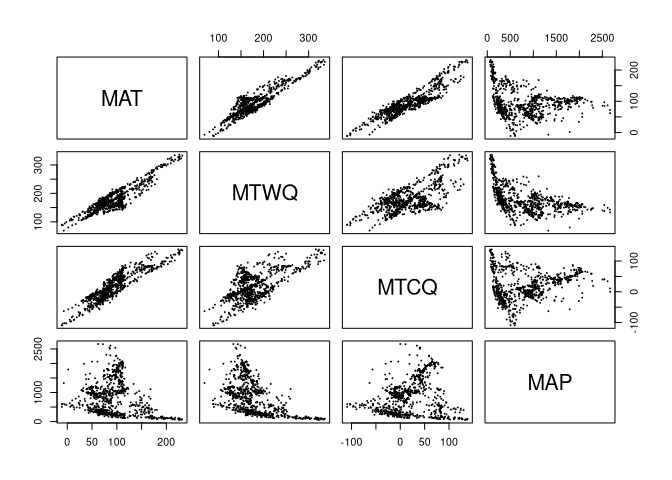
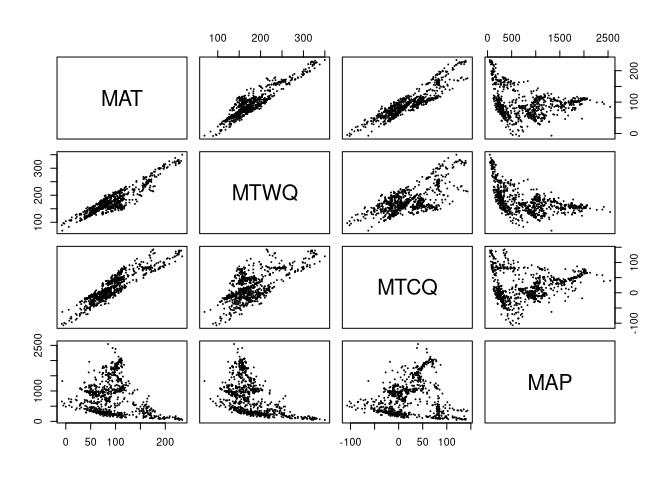
Expanded README

diff --git a/README.md b/README.md
@@ -1,7 +1,7 @@
 An overview of Species Distribution Modeling in R
 =================================================
 
-### This demo was largely based on [Hijmans & Elith, 2013](https://cran.r-project.org/web/packages/dismo/vignettes/sdm.pdf) and the [sdm](https://cran.r-project.org/web/packages/sdm/sdm.pdf) and [dismo](https://cran.r-project.org/web/packages/dismo/dismo.pdf) documentation pages. This serves to provide a walkthrough of SDM and popular implementations in R as of Fall 2020. I’ve included the extent of my understanding of how the different methods work.
+### This demo was largely based on [Hijmans & Elith, 2013](https://cran.r-project.org/web/packages/dismo/vignettes/sdm.pdf), [Franklin 2010](https://doi.org/10.1017/CBO9780511810602) and the [sdm](https://cran.r-project.org/web/packages/sdm/sdm.pdf) and [dismo](https://cran.r-project.org/web/packages/dismo/dismo.pdf) documentation pages. This serves to provide a walkthrough of SDM and popular implementations in R as of Fall 2020. I’ve included the extent of my understanding of how the different methods work.
 
 ### If you already have an understanding of the motivation of SDM, continue here to learn more about implementation. If you’d like a brief refresher on the motivation and general application of SDM take a look at the powerpoint in this git repository.
 
@@ -26,6 +26,7 @@ library(raster)
 # SDM packages
 library(dismo)
 library(sdm)
+library(usdm) # For vifstep function
 ```
 
 Prepare species occurrence data
@@ -64,12 +65,12 @@ head(dc.df)
 ```
 
     ##         lon      lat
-    ## 1 -123.6607 42.23318
-    ## 2 -124.1054 43.78552
-    ## 3 -122.9737 40.97181
-    ## 4 -124.0976 44.04676
-    ## 5 -123.9310 41.78430
-    ## 6 -111.6500 40.24918
+    ## 1 -123.9390 41.67295
+    ## 2 -124.0979 44.04678
+    ## 3 -124.0980 44.04678
+    ## 4 -120.9603 39.81911
+    ## 5 -120.8786 40.05013
+    ## 6 -120.8630 40.07212
 
 ``` r
 # Let's ready some political boundaries in for visualization
@@ -94,8 +95,9 @@ bioclim_global.stack <- raster::getData(name = "worldclim",
                         res = 2.5)
 
 # This replaces bioX name with more descriptive acronym
-# We choose 4 climatic variables here more for examplary purposes than biologically
-# sound reasoning
+# We choose 4 climatic variables here more for exemplary purposes than biologically
+# sound reasoning, but all predictors chosen should be motivated/informed
+# by biological knowledge
 names(bioclim_global.stack)[names(bioclim_global.stack) %in% c("bio1", "bio10", "bio11", "bio12")] <- 
   c("MAT", "MTWQ", "MTCQ", "MAP")
 # bio1 = Mean Annual Temperature (MAT)
@@ -125,28 +127,30 @@ presvals <- raster::extract(predictors, dc.df)
 
 # These are 500 random locations, used as in place of absence values as 
 # 'pseudoabsences' (the species probably doesn't occur at any random point)
+# True 'absences' are better, but folks don't often record all the places where 
+# they don't find species
 backgr <- randomPoints(predictors, 500)
 
 # predictor values at random locations
 absvals <- raster::extract(predictors, backgr)
 
-# We know that expected habitat suitability (Ey) is 1 for areas where the species
+# We know that probability of presence is 1 for areas where the species
 # was found, and we assume it's 0 for the random background points
-Ey <- c(rep(1, nrow(presvals)), rep(0, nrow(absvals)))
+Y <- c(rep(1, nrow(presvals)), rep(0, nrow(absvals)))
 
-# Now here we have a dataframe with the response variable (Ey) and corresponding
+# Now here we have a dataframe with the response variable (Y) and corresponding
 # predictor values
-sdmdata <- data.frame(cbind(Ey, rbind(presvals, absvals)))
+sdmdata <- data.frame(cbind(Y, rbind(presvals, absvals)))
 head(sdmdata)
 ```
 
-    ##   Ey MAT MTWQ MTCQ  MAP
-    ## 1  1 111  185   44 1378
-    ## 2  1 111  156   70 1819
-    ## 3  1  52  127   -6 1180
-    ## 4  1 111  156   70 2003
-    ## 5  1  99  158   48 1793
-    ## 6  1  NA   NA   NA   NA
+    ##   Y MAT MTWQ MTCQ  MAP
+    ## 1 1 102  158   52 1833
+    ## 2 1 111  156   70 2003
+    ## 3 1 111  156   70 2003
+    ## 4 1  88  170   16 1213
+    ## 5 1  75  160   -2  956
+    ## 6 1  86  172    6  915
 
 ``` r
 # Collinearity can cause problems in Species Distribution Models. My understanding
@@ -155,7 +159,7 @@ head(sdmdata)
 # of the species (if not both). If the predictors are not collinear in the areas
 # to which the SDM is projected then the model won't know how to assign probability
 # of habitat suitability to the independent predictors
-# We can do this by visually inspecting collinearity with a scatterplot matrix
+# We can check for collinearity by visually inspecting a scatterplot matrix
 pairs(sdmdata[,2:length(sdmdata)], cex = 0.1, fig=TRUE)
 ```
 
@@ -163,15 +167,39 @@ pairs(sdmdata[,2:length(sdmdata)], cex = 0.1, fig=TRUE)
 
 ``` r
 # MAT and MTWQ appear to be collinear across this area!
-# There are more quantitative assessments of collinearity (like using the Variance Inlation Factor, see https://www.rdocumentation.org/packages/car/versions/3.0-9/topics/vif) that I won't do here
+# There are more quantitative assessments of collinearity (like using the Variance Inlation Factor)
+# vifstep() from the usdm package uses VIF to identify the most collinear predictors
+# From the vifstep() documentation:
+# "vifstep calculate VIF for all variables, exclude one with highest VIF (greater than threshold), 
+#repeat the procedure until no variables with VIF greater than th remains."
+vifstep(select(sdmdata, -Y), th=10)
+```
+
+    ## 1 variables from the 4 input variables have collinearity problem: 
+    ##  
+    ## MAT 
+    ## 
+    ## After excluding the collinear variables, the linear correlation coefficients ranges between: 
+    ## min correlation ( MAP ~ MTCQ ):  0.2493844 
+    ## max correlation ( MTCQ ~ MTWQ ):  0.6157952 
+    ## 
+    ## ---------- VIFs of the remained variables -------- 
+    ##   Variables      VIF
+    ## 1      MTWQ 5.669098
+    ## 2      MTCQ 4.581753
+    ## 3       MAP 3.752748
+
+``` r
+# It appears that when MAT is removed. There aren't significant collinearity 
+# problems among the predictors
 
 # So let's remove MAT and try again
 predictors <- raster::subset(bioclim.stack, c("MTWQ", "MTCQ", "MAP"))
 presvals <- raster::extract(predictors, dc.df)
 backgr <- randomPoints(predictors, 500)
 absvals <- raster::extract(predictors, backgr)
-Ey <- c(rep(1, nrow(presvals)), rep(0, nrow(absvals)))
-sdmdata <- data.frame(cbind(Ey, rbind(presvals, absvals)))
+Y <- c(rep(1, nrow(presvals)), rep(0, nrow(absvals)))
+sdmdata <- data.frame(cbind(Y, rbind(presvals, absvals)))
 
 pairs(sdmdata[,2:length(sdmdata)], cex = 0.1, fig=TRUE)
 ```
@@ -181,3 +209,164 @@ pairs(sdmdata[,2:length(sdmdata)], cex = 0.1, fig=TRUE)
 ``` r
 # Better! 
 ```
+
+Manual SDM
+==========
+
+Let’s do some SDMs using linear models and Generalized Linear Models–
+these are very rudimentary and not used in published papers, but I think
+these examples are important for understanding how some of the simplest
+SDMs (regression methods) generally work
+
+Let’s start Modeling! Here’s the most basic regression SDM, a linear
+model
+
+Linear model
+------------
+
+(*E*<sub>*Y*</sub> = *m**x* + *b* + *e*) (*E*<sub>*Y*</sub>) is expected
+habitat suitability (*b*) = intercept (*m*) = coefficient (*x*) =
+predictor (*e*) = error
+
+Assumes: Normal distributed error mean = 0 Variance((*E*<sub>*Y*</sub>))
+is constant
+
+``` r
+sdm_lm <- lm(Y ~ MTWQ, data = sdmdata)
+plot(sdmdata$MTWQ, sdmdata$Y, 
+     main = "D. californica Linear SDM",
+     xlab = "Mean Temp of Warmest Quarter",
+     ylab = "Presence/Absence"
+     )
+abline(sdm_lm)
+```
+
+![](README_files/figure-markdown_github/Linear%20Model-1.png) The
+simplest SDM ever! As Mean Temperature of the Warmest Quarter increases,
+the more absent the species is. This relationship can be mapped out in
+geographic space, but would not be too informative because the model fit
+is poor and we know that other climatic variables impact species
+distributions.
+
+Generalized Linear Model SDM
+----------------------------
+
+(*g*(*E*<sub>*Y*</sub>) = *L**P* = *m**x* + *b* + *e*) g() is link
+function LP = Linear Predictor
+
+GLMs Do not have to have: - normal distribution of error - homogenous
+variance Different link functions can be used, which each have their own
+assumptions. A GLM with a Gaussian link function is simply a Linear
+Model– it carries the same assumptions as a linear model. We can make
+the same linear model as above using the glm() function
+
+``` r
+plot(sdmdata$MTWQ, sdmdata$Y, 
+     main = "D. californica GLM SDM",
+     xlab = "Mean Temp of Warmest Quarter",
+     ylab = "Presence/Absence"
+)
+
+sdm_lm <- glm(Y ~ MTWQ, data = sdmdata, family = gaussian)
+abline(sdm_lm, lwd = 3, col = "blue")
+legend("topright", legend = c("Linear Model"), col = c("blue"), lty=1, lwd = 3)
+```
+
+![](README_files/figure-markdown_github/Gaussian%20GLM-1.png)
+
+The Gaussian link function doesn’t make too much sense for SDM because
+SDM has a binary response variable: presence or absence. When trying to
+interpret the above model we run into a problem– At MTWQ = 20.0°C, what
+does .4 Presence/Absence mean? How can we have a plant .4 present at a
+location? This does not make sense, and we must transform our model to
+provide the *probability* of presence (arguably better interpreted as
+“habitat suitability”) as the response variable. This would give meaning
+to values between 1 and 0. We can do this with the logit link function.
+
+(*g*(*E*<sub>*Y*</sub>) = *L**P* = *m**x* + *b* + *e*)
+(*L**P* = *l**o**g*10(*E*<sub>*Y*</sub>/(1 − *E*<sub>*Y*</sub>))) solve
+for (*E*<sub>*Y*</sub>) Expanded Logit GLM:
+(*E*<sub>*Y*</sub> = *e*<sup>(</sup>*m**x* + *b* + *e*)/(1 + *e*<sup>(</sup>*m**x* + *b* + *e*)))
+
+``` r
+sdm_glm <- glm(Y ~ MTWQ, data = sdmdata, family = binomial)
+# This is the expanded logit GLM equation, written as an R function
+Ey_calc <- function(x){
+  y_int <- as.numeric(sdm_glm$coefficients["(Intercept)"])
+  m <- as.numeric(sdm_glm$coefficients["MTWQ"])
+  LP = m*x + y_int
+  return(exp(LP) / (1 + exp(LP)))
+}
+
+MTWQ_sorted <- sort(sdmdata$MTWQ)
+Ey <- Ey_calc(MTWQ_sorted)
+
+plot(sdmdata$MTWQ, sdmdata$Y, 
+     main = "D. californica Logit GLM SDM",
+     xlab = "Mean Temp of Warmest Quarter",
+     ylab = "Probability of Presence"
+)
+
+lines(MTWQ_sorted, Ey, lwd = 3, col = "red")
+```
+
+![](README_files/figure-markdown_github/Logit%20GLM-1.png)
+
+Now let’s project this onto geographic space, taking known values of the
+environment from raster files and using our GLM to predict the
+‘probability of presence’ in each raster cell
+
+``` r
+# Here's a function we'll use to plot SDM projections
+project.sdm <- function(prediction, plotName){
+  sp::plot(prediction, main = plotName)
+  sp::plot(CA_OR.shp, add = T)
+  points(dc.df, pch = 16, cex = .2)
+  legend("bottomright", legend = "D. californica occ.", pch = 16, cex=.4)
+}
+
+# Here's a map of projection of the Logit GLM SDM model. We can use the raster 
+# 'predict()' function to produce a raster layer of the predicted values
+prediction_glm <- raster::predict(bioclim.stack, sdm_glm)
+
+project.sdm(prediction_glm, "Logit GLM SDM (D. californica), MTWQ only")
+```
+
+![](README_files/figure-markdown_github/projection1-1.png) Notice how
+the raster legend shows values between -6 and 4. These aren’t
+probabilities! This happened because we’re plotting the logit
+transformed response variable
+(*g*(*E*<sub>*Y*</sub>) = *m**x* + *b* + *e*) where
+(*g*(*E*<sub>*Y*</sub>) = *l**o**g*10(*E*<sub>*Y*</sub>/(1 − *E*<sub>*Y*</sub>)))
+Solve for (*E*<sub>*Y*</sub>) to get the probability value between 0 and
+1:
+(*E*<sub>*Y*</sub> = *e*<sup>(</sup>*g*(*E*<sub>*Y*</sub>)/(1 + *e*<sup>(</sup>*g*(*E*<sub>*Y*</sub>))))
+
+``` r
+prediction_glm.Ey <- exp(prediction_glm) / (1 + exp(prediction_glm))
+project.sdm(prediction_glm.Ey, "Logit GLM SDM (D. californica), MTWQ only")
+```
+
+![](README_files/figure-markdown_github/projection2-1.png) Looks like a
+real SDM! Although you can see that the model predicts high habitat
+suitability in areas where *D. californica* wasn’t actually observed.
+Maybe if we throw the other climatic predictors in it will help.
+
+``` r
+sdm_glm2 <- glm(Y ~ MTWQ + MTCQ + MAP, data = sdmdata, family = binomial)
+prediction_glm2 <- raster::predict(bioclim.stack, sdm_glm2)
+prediction_glm2.Ey <- exp(prediction_glm2) / (1+exp(prediction_glm2))
+project.sdm(prediction_glm2.Ey, "GLM SDM (D. californica)")
+```
+
+![](README_files/figure-markdown_github/logitGLM2-1.png) Notice how the
+area where the model predicts high habitat suitability where there
+weren’t actual occurrences is much lower. We can still do better! Let’s
+begin looking at some of the explicit SDM packages and functions that
+are popular in R.
+
+Popular SDM methods
+===================
+
+Rather than organize these methods by the 3 general categories of SDM 1.
+Profiling Methods: distance and envelope based methods
